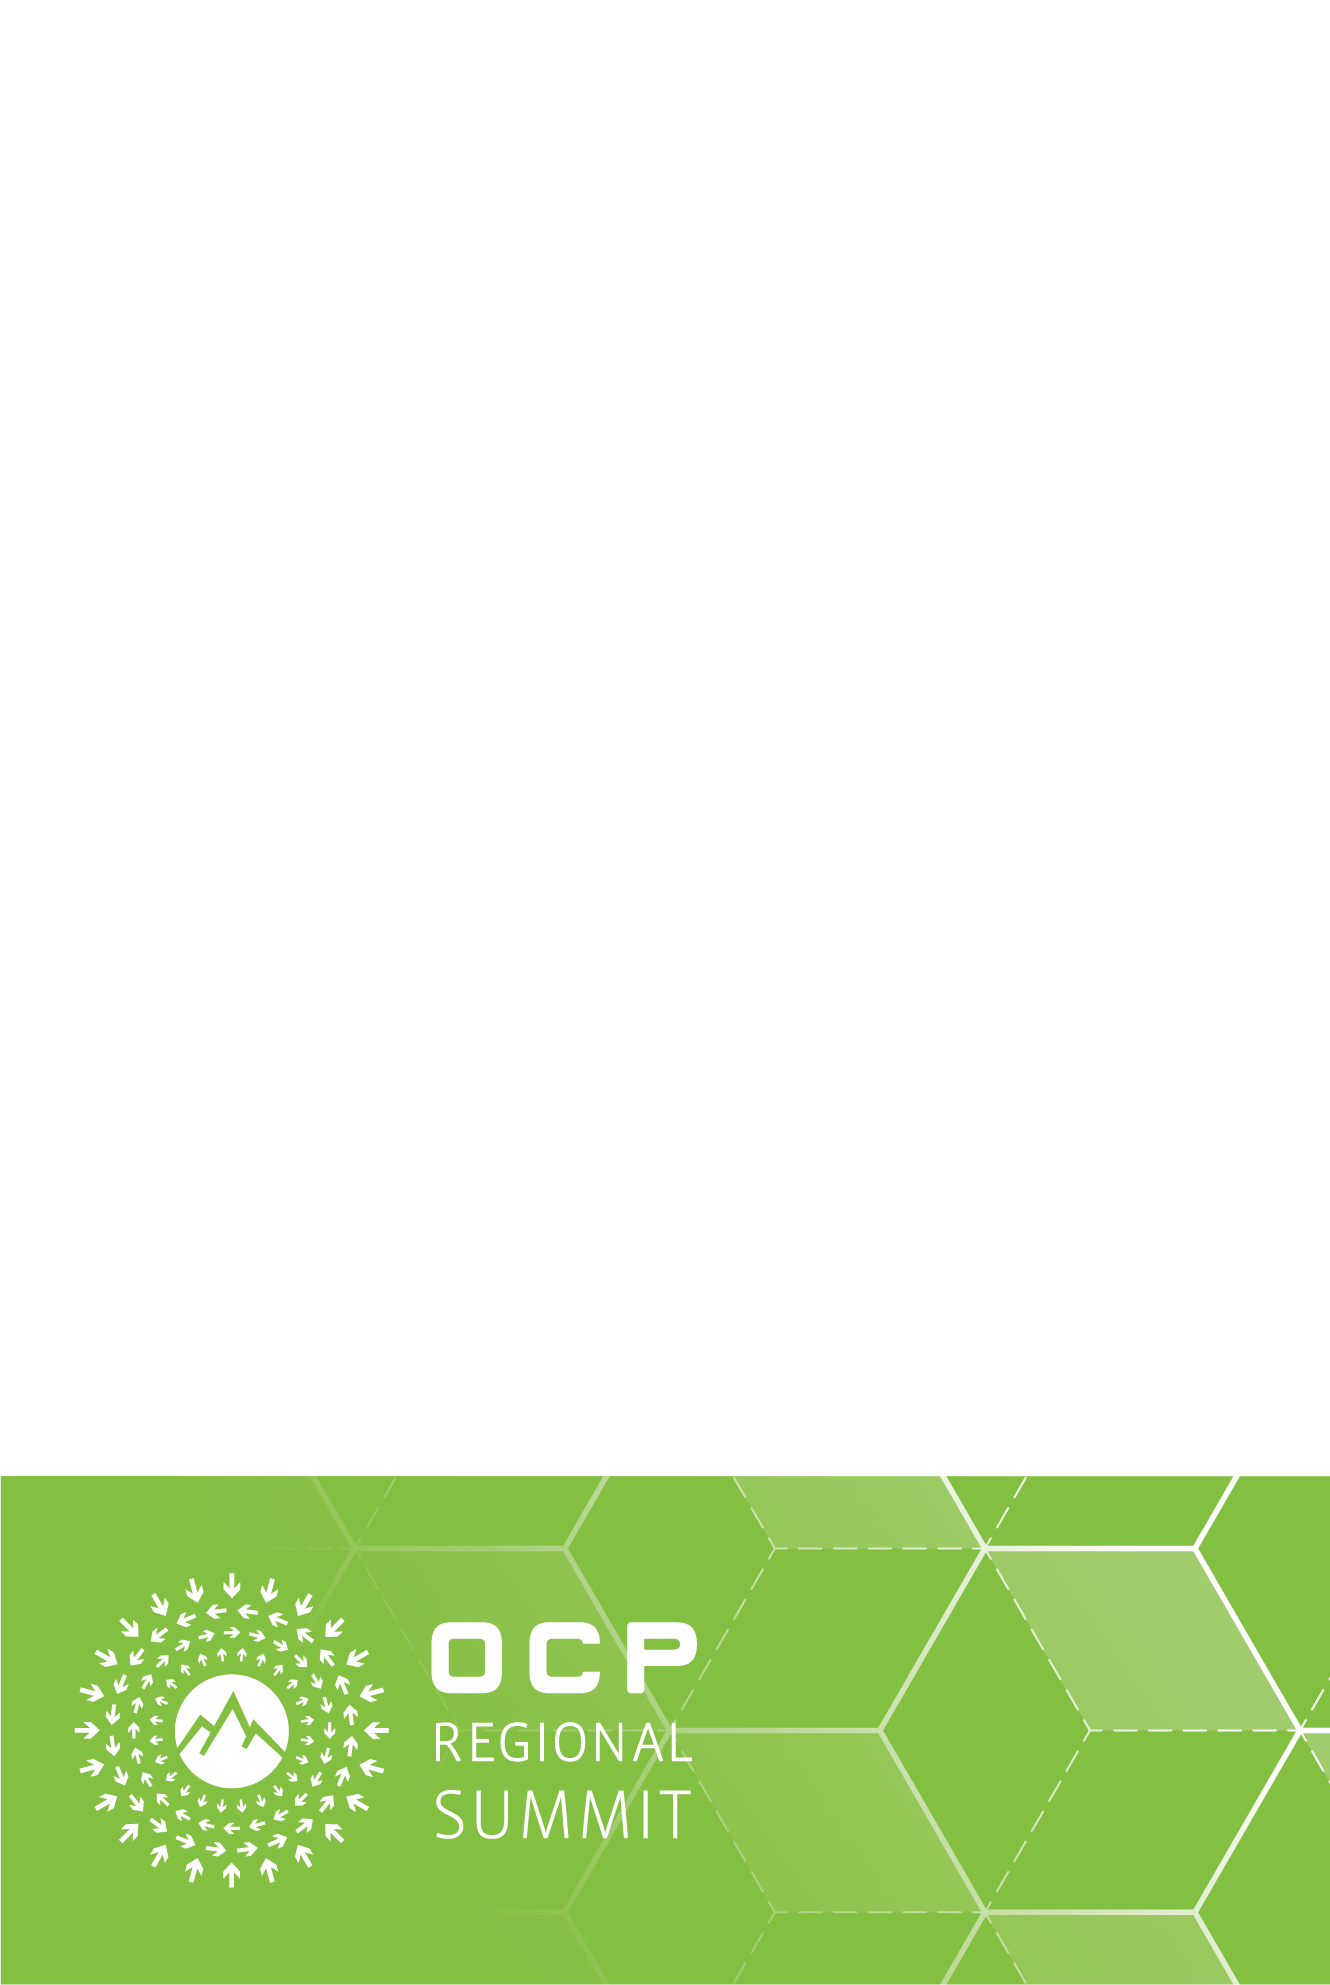
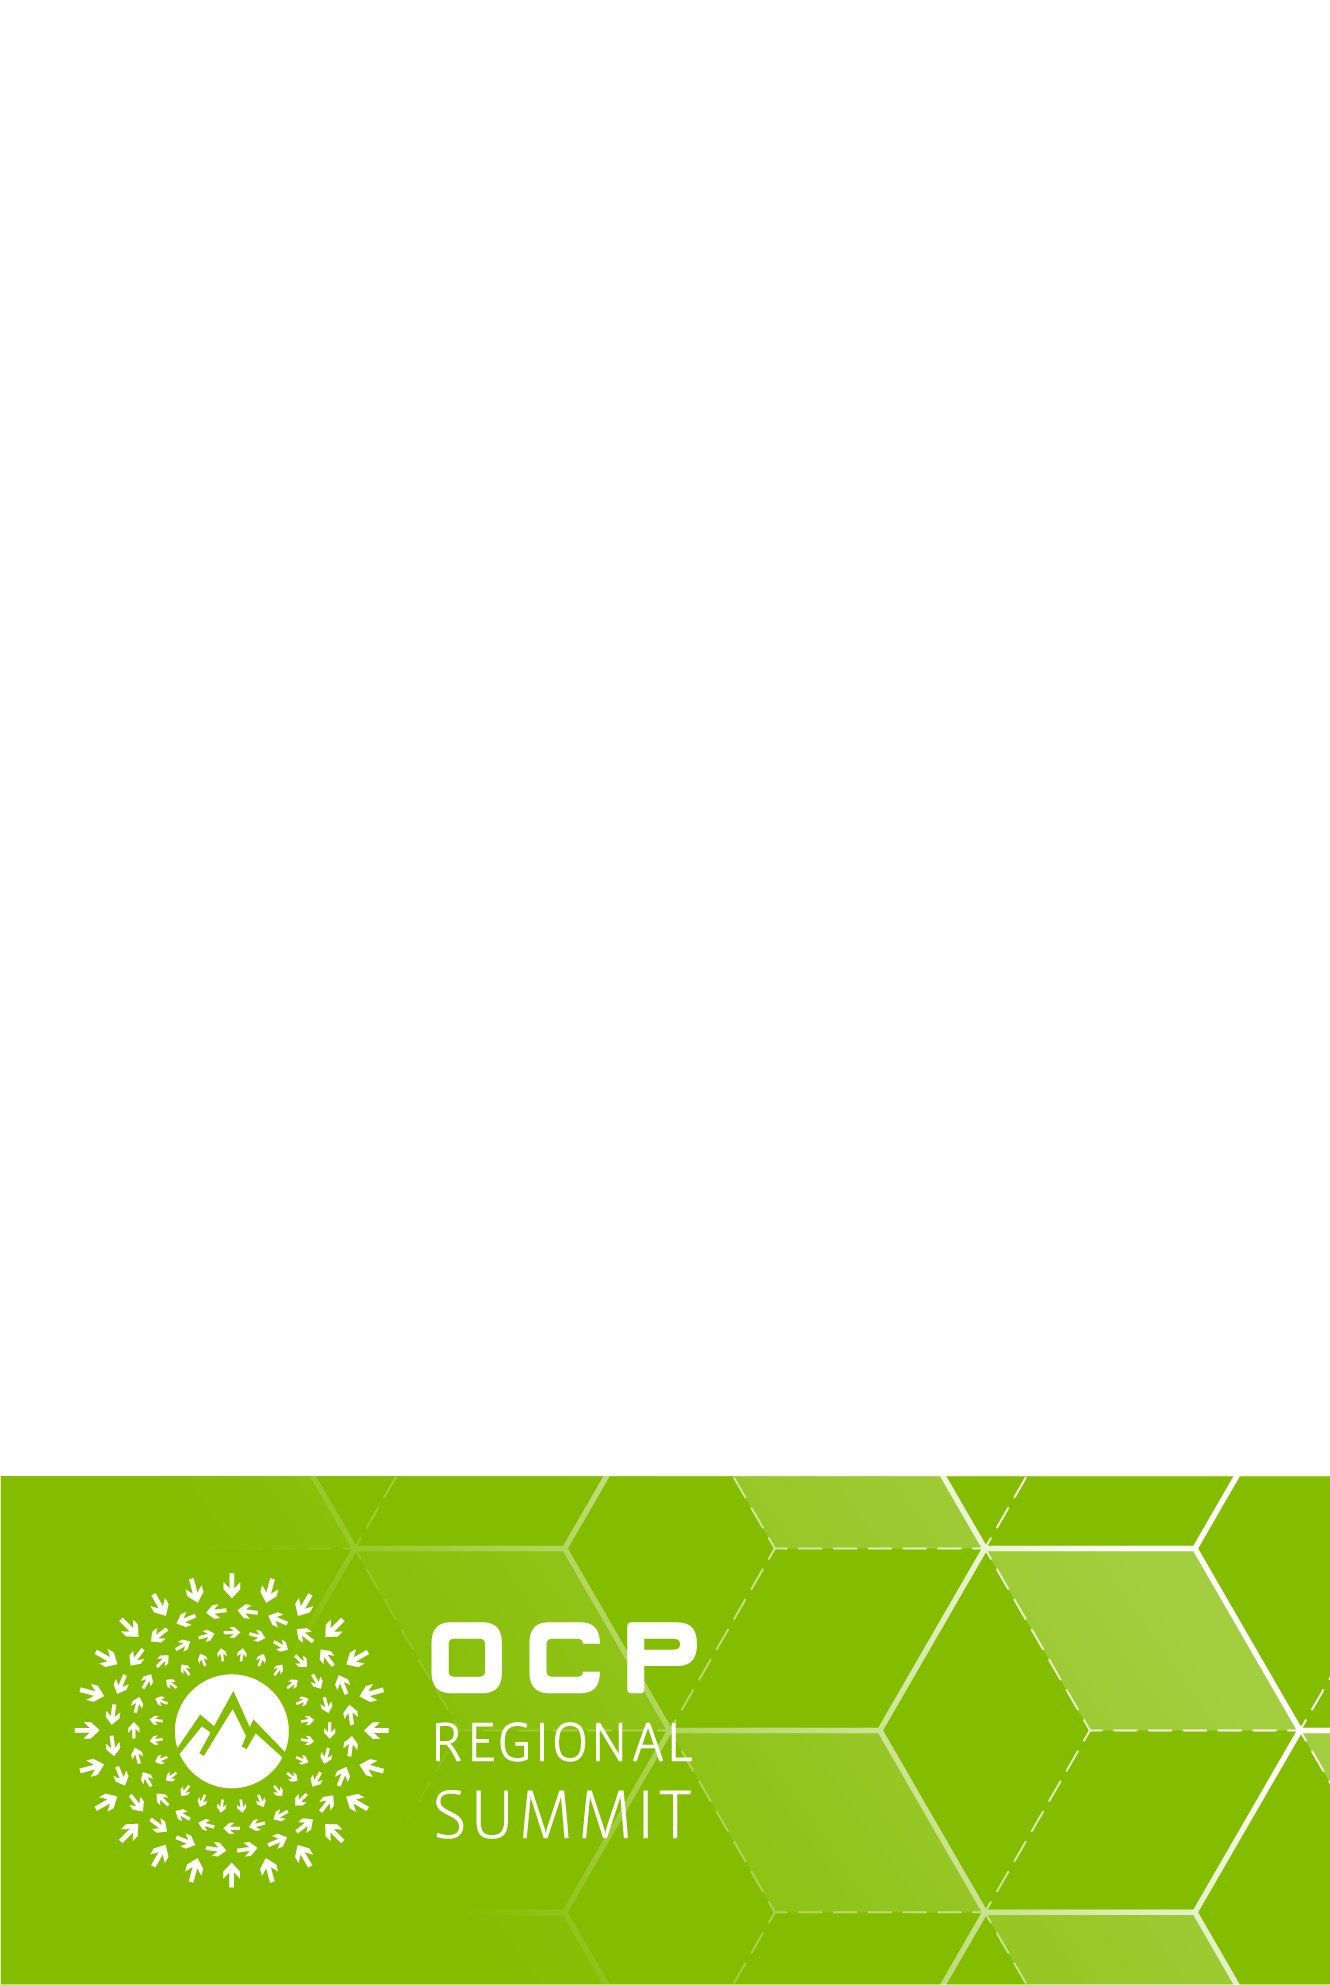
Changes OCP 2023 reg background image and green color.

Changed region(s): [[0.0, 0.7184, 1.0, 1.0]]

diff --git a/src/badge_templates/2023ocpreg/General Attendee/styles/card.less b/src/badge_templates/2023ocpreg/General Attendee/styles/card.less
@@ -84,7 +84,7 @@
 		background-color: #002554 !important;
 	}
 	.board-member-title {
-		background-color: #84bd00 !important;
+		background-color: #7AC70A !important;
 	}
 	.project-lead-title {
 		background-color: #e87800 !important;

diff --git a/src/badge_templates/2023ocpreg/OCP Staff Badge/styles/card.less b/src/badge_templates/2023ocpreg/OCP Staff Badge/styles/card.less
@@ -81,7 +81,7 @@
 		width: max-content;
 	}
 	.ocp-staff {
-		background-color: #84bd00 !important;
+		background-color: #7AC70A !important;
 	}
 	.attendee-title {
 		font-size: 19.1pt;
